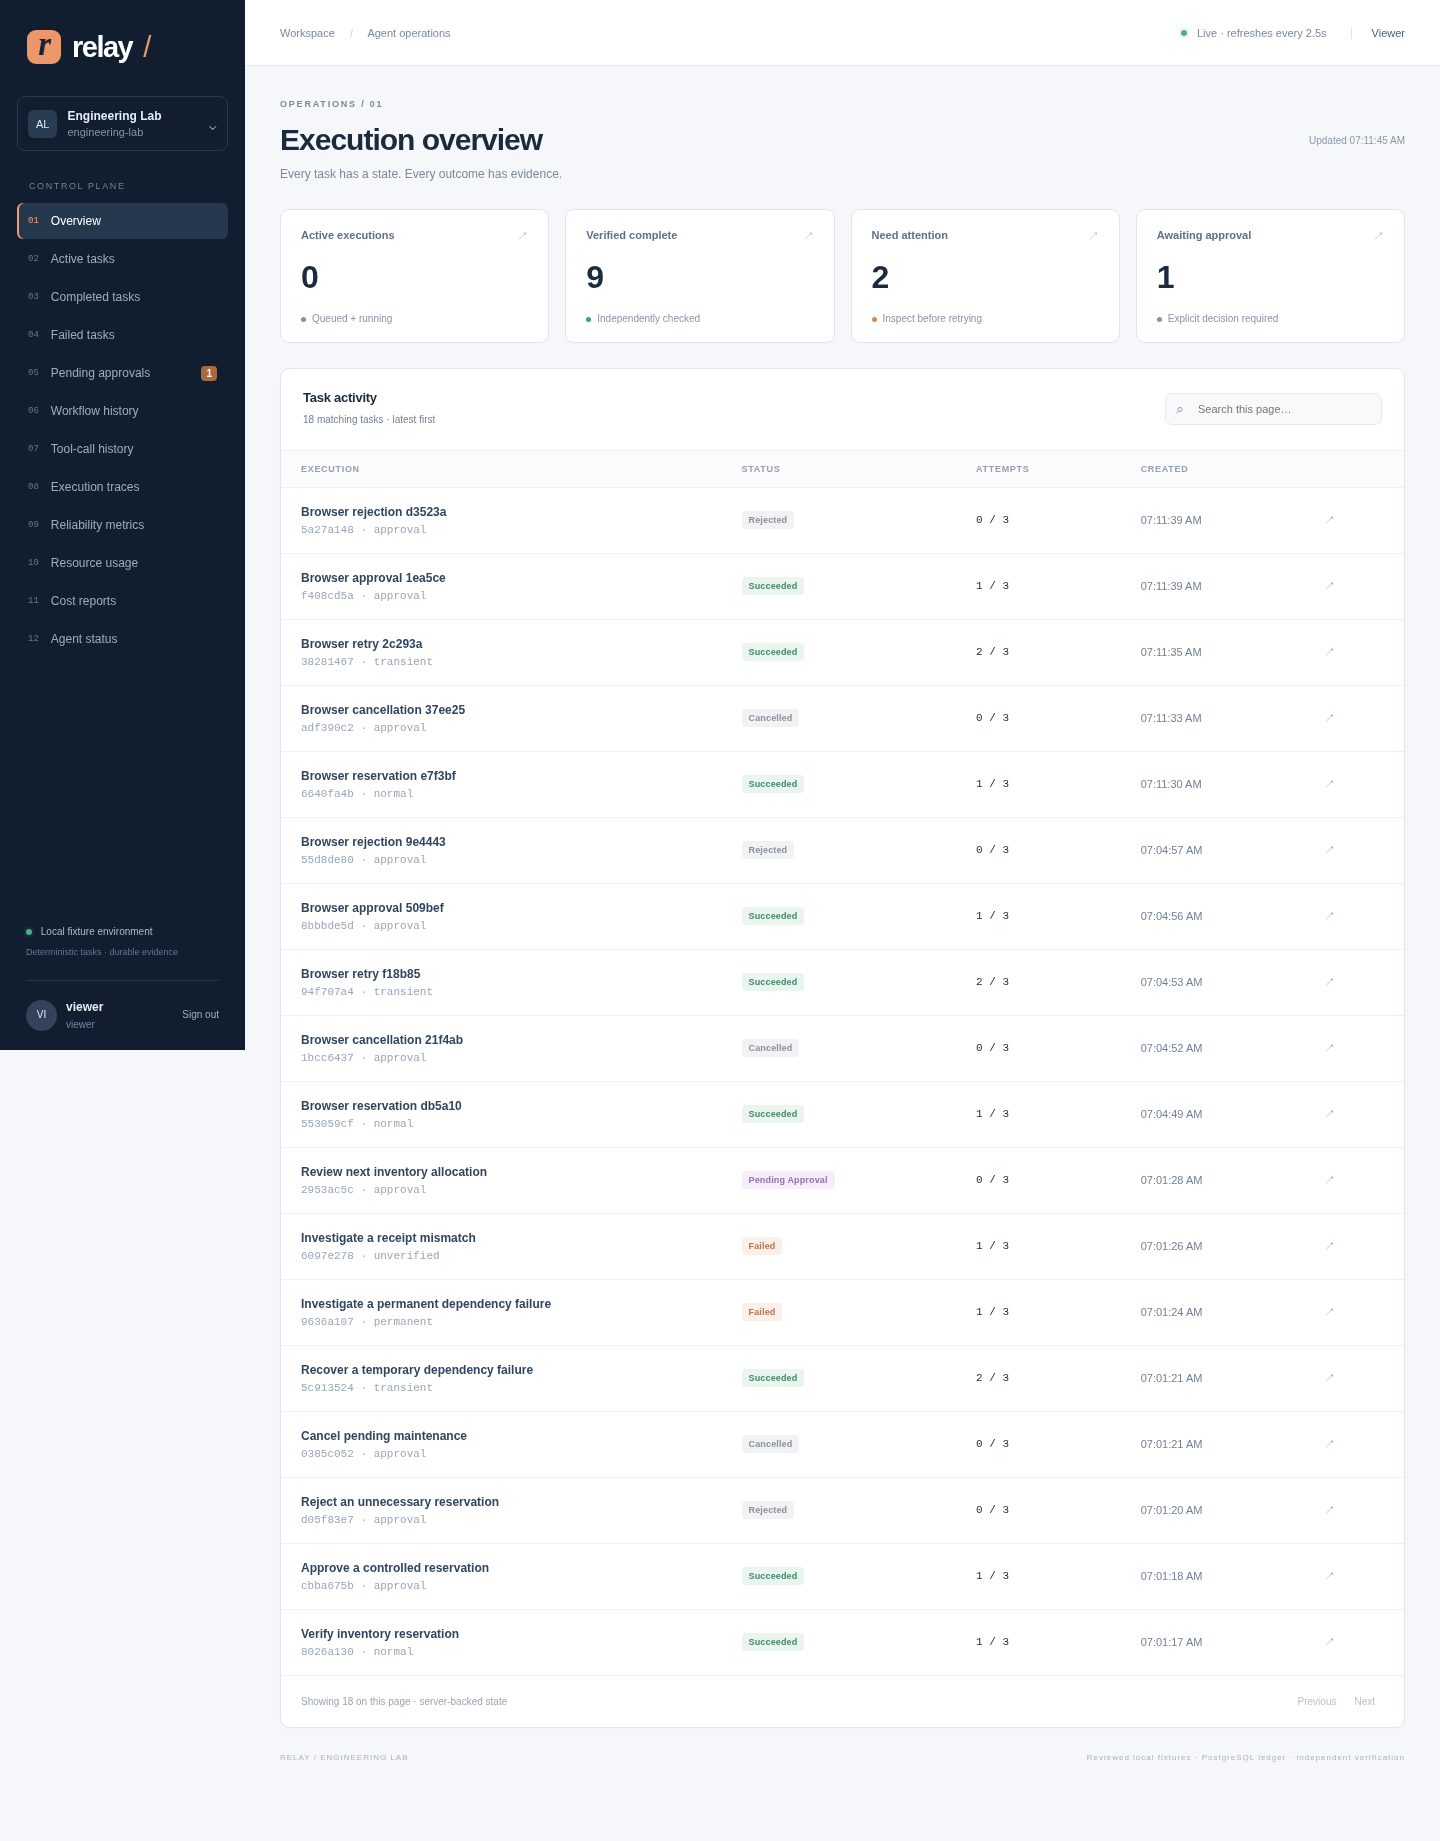
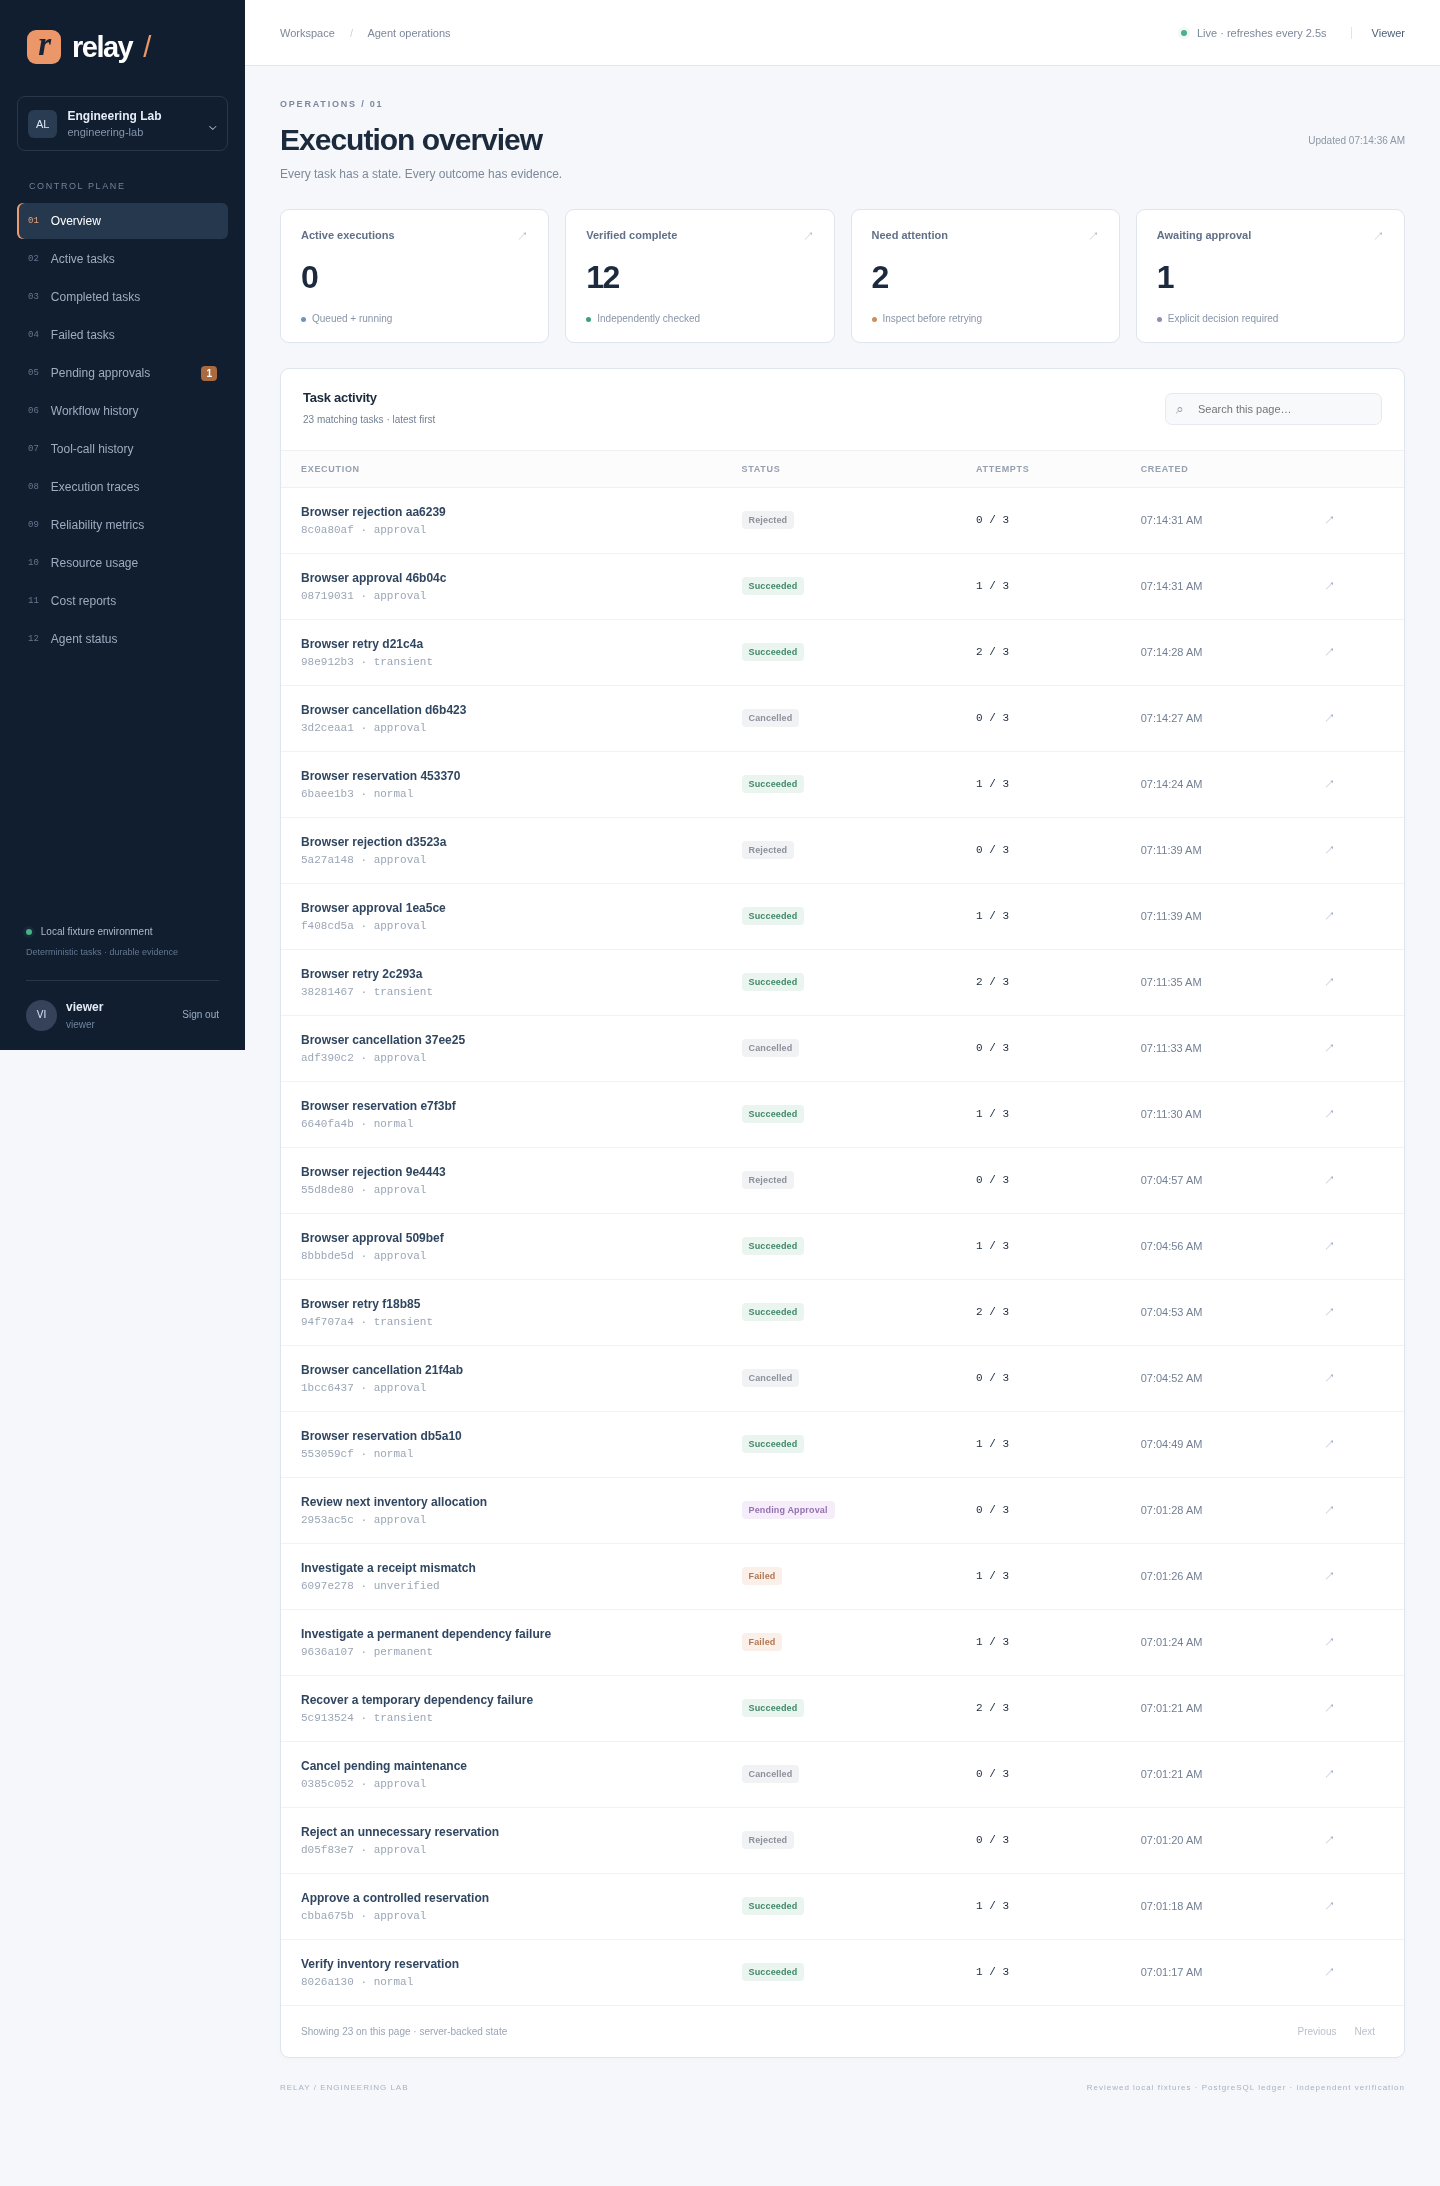
Record verified local delivery evidence and refine mobile header

diff --git a/frontend/src/style.css b/frontend/src/style.css
@@ -1293,3 +1293,18 @@ footer {
     color: #65758a;
   }
 }
+@media (max-width: 760px) {
+  .topbar > span {
+    white-space: nowrap;
+  }
+  .topbar > div {
+    font-size: 0;
+  }
+  .topbar .top-role {
+    font-size: 10px;
+  }
+  .mobile-signout {
+    white-space: nowrap;
+    font-size: 10px;
+  }
+}

diff --git a/README.md b/README.md
@@ -32,6 +32,8 @@ it again appends another scenario set; it does not reset the database. The confi
 accepts at most 1,000 tasks, serialized in PostgreSQL. PostgreSQL binds only localhost port 15438.
 `docker compose down` stops this lab and preserves its named database volume.
 
+[Desktop dashboard](docs/images/dashboard-desktop.png) · [Mobile dashboard](docs/images/dashboard-mobile.png)
+
 ## Observe and control
 
 The sidebar provides active/completed/failed tasks, pending approvals, workflow and tool-call history,
